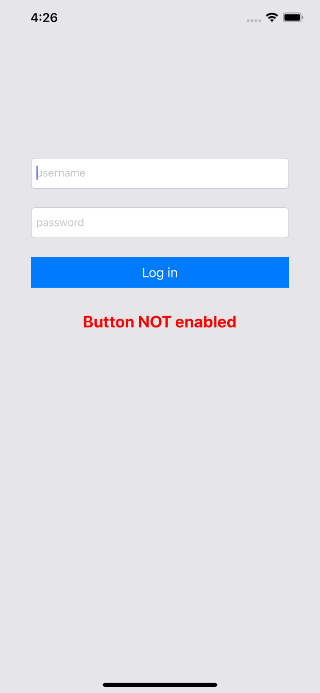
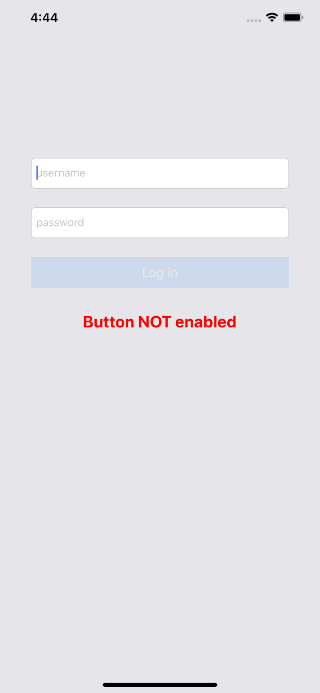
Updated to latest Rx memory managment

Changed region(s): [[0.0938, 0.3636, 0.9062, 0.4242], [0.0938, 0.0, 0.1875, 0.0303]]

diff --git a/RxLoginValidation/ViewController.swift b/RxLoginValidation/ViewController.swift
@@ -23,14 +23,21 @@ class ViewController: UIViewController {
     override func viewDidLoad() {
         super.viewDidLoad()
 
-        _ = usernameTextField.rx.text.map { $0 ?? ""}.bind(to: viewModel.usernameText)
-        _ = passwordTextField.rx.text.map { $0 ?? ""}.bind(to: viewModel.passwordText)
+        usernameTextField.becomeFirstResponder()
+
+        usernameTextField.rx.text.map { $0 ?? ""}
+            .bind(to: viewModel.usernameText).disposed(by: disposeBag)
+        passwordTextField.rx.text.map { $0 ?? ""}
+            .bind(to: viewModel.passwordText).disposed(by: disposeBag)
 
         // method 1
-        _ = viewModel.isValid.bind(to: loginButton.rx.isEnabled)
+        viewModel.isValid().bind(to: loginButton.rx.isEnabled).disposed(by: disposeBag)
+
+        viewModel.isValid().map { $0 ? 1 : 0.1 }
+            .bind(to: loginButton.rx.alpha).disposed(by: disposeBag)
 
         // method 2
-        viewModel.isValid.subscribe(
+        viewModel.isValid().subscribe(
             onNext: { isValid in
                 // We can enable/disable the button here as well
                 self.statusLabel.text = isValid ? "Button enabled" : "Button NOT enabled"

diff --git a/RxLoginValidation/ViewModel.swift b/RxLoginValidation/ViewModel.swift
@@ -10,13 +10,13 @@ import Foundation
 import RxSwift
 
 struct ViewModel {
-    var usernameText = BehaviorSubject<String>(value: "") // default value is empty string
-    var passwordText = BehaviorSubject<String>(value: "")
+    var usernameText = PublishSubject<String>()
+    var passwordText = PublishSubject<String>()
 
-    var isValid: Observable<Bool> {
+    func isValid() -> Observable<Bool> {
         return Observable.combineLatest(usernameText.asObservable(),
-                                        passwordText.asObservable()) { username, password in
-            username.count >= 4 && password.count >= 4
-        }
+                                        passwordText.asObservable()).map { username, password in
+                                            username.count >= 4 && password.count >= 4
+        }.startWith(false)
     }
 }
